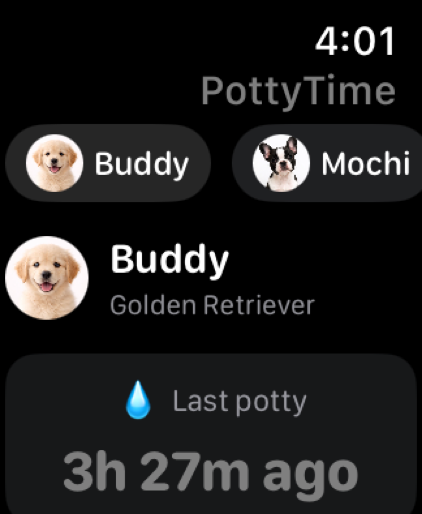
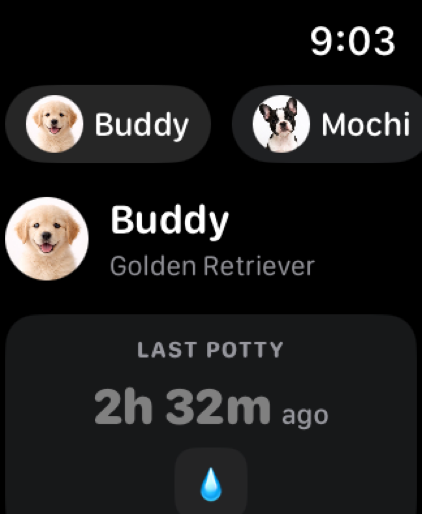
Replace watch screenshots with updated versions

diff --git a/src/index.js b/src/index.js
@@ -1358,13 +1358,13 @@ const landingHTML = `<!DOCTYPE html>
         </div>
         <div style="position:relative; z-index:2;">
           <div class="watch-frame-hero" onclick="openLightbox(6)">
-            <img src="/screenshots/watch-dashboard.PNG" alt="PottyTime Watch Dashboard" loading="lazy">
+            <img src="/screenshots/watch-dashboard.PNG?v=2" alt="PottyTime Watch Dashboard" loading="lazy">
             <div class="watch-crown"></div>
           </div>
           <div class="watch-thumbnails">
-            <div class="watch-thumb" onclick="openLightbox(7)"><img src="/screenshots/watch-log-event-button.PNG" alt="Watch Log" loading="lazy"></div>
-            <div class="watch-thumb" onclick="openLightbox(8)"><img src="/screenshots/watch-quick-log.PNG" alt="Watch Quick Log" loading="lazy"></div>
-            <div class="watch-thumb" onclick="openLightbox(9)"><img src="/screenshots/watch-logged-confirmation.PNG" alt="Watch Confirmation" loading="lazy"></div>
+            <div class="watch-thumb" onclick="openLightbox(7)"><img src="/screenshots/watch-log-button.PNG" alt="Watch Log" loading="lazy"></div>
+            <div class="watch-thumb" onclick="openLightbox(8)"><img src="/screenshots/watch-quick-log.PNG?v=2" alt="Watch Quick Log" loading="lazy"></div>
+            <div class="watch-thumb" onclick="openLightbox(9)"><img src="/screenshots/watch-log-confirmation.PNG" alt="Watch Confirmation" loading="lazy"></div>
           </div>
         </div>
       </div>
@@ -1389,10 +1389,10 @@ const landingHTML = `<!DOCTYPE html>
       '/screenshots/insights.PNG?v=2',
       '/screenshots/settings-updated.PNG',
       '/screenshots/map2.PNG',
-      '/screenshots/watch-dashboard.PNG',
-      '/screenshots/watch-log-event-button.PNG',
-      '/screenshots/watch-quick-log.PNG',
-      '/screenshots/watch-logged-confirmation.PNG'
+      '/screenshots/watch-dashboard.PNG?v=2',
+      '/screenshots/watch-log-button.PNG',
+      '/screenshots/watch-quick-log.PNG?v=2',
+      '/screenshots/watch-log-confirmation.PNG'
     ];
     let lbIndex = 0;
     function openLightbox(i) {
